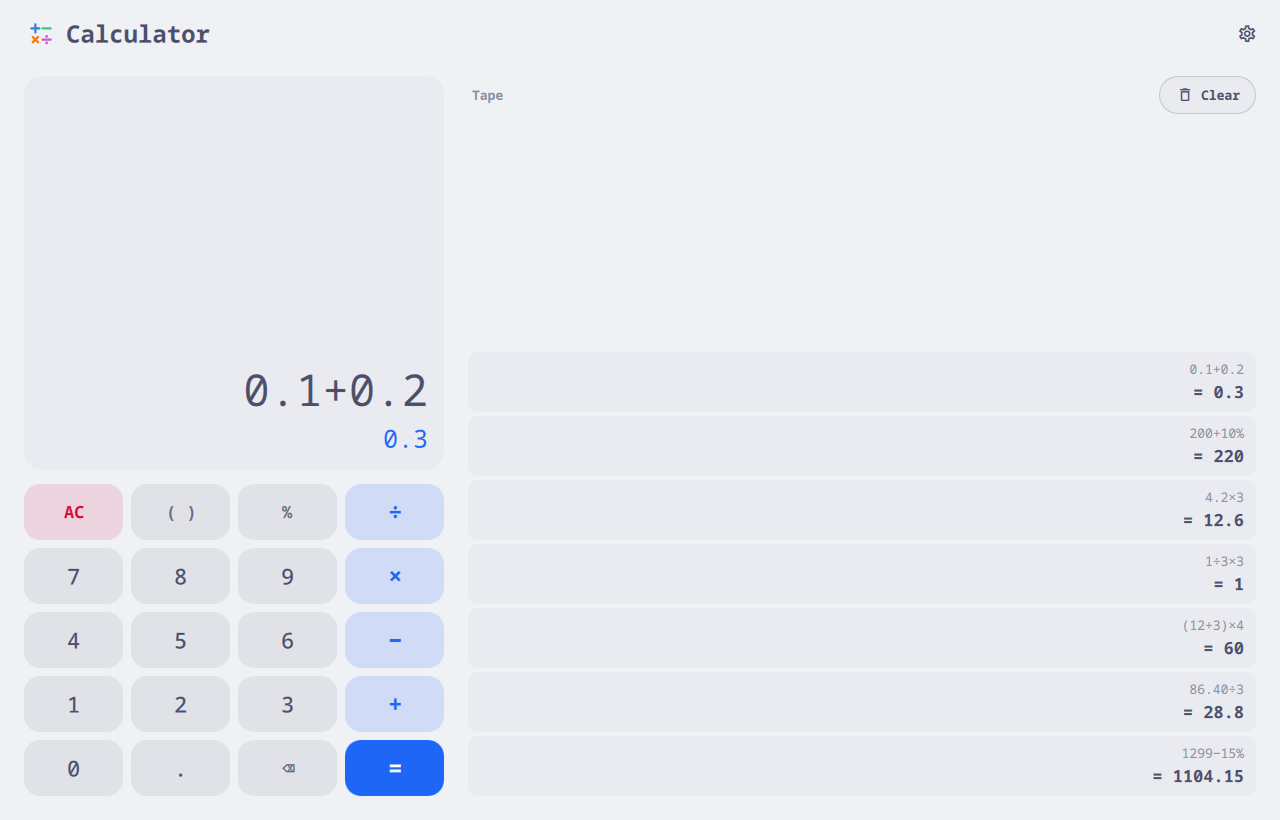
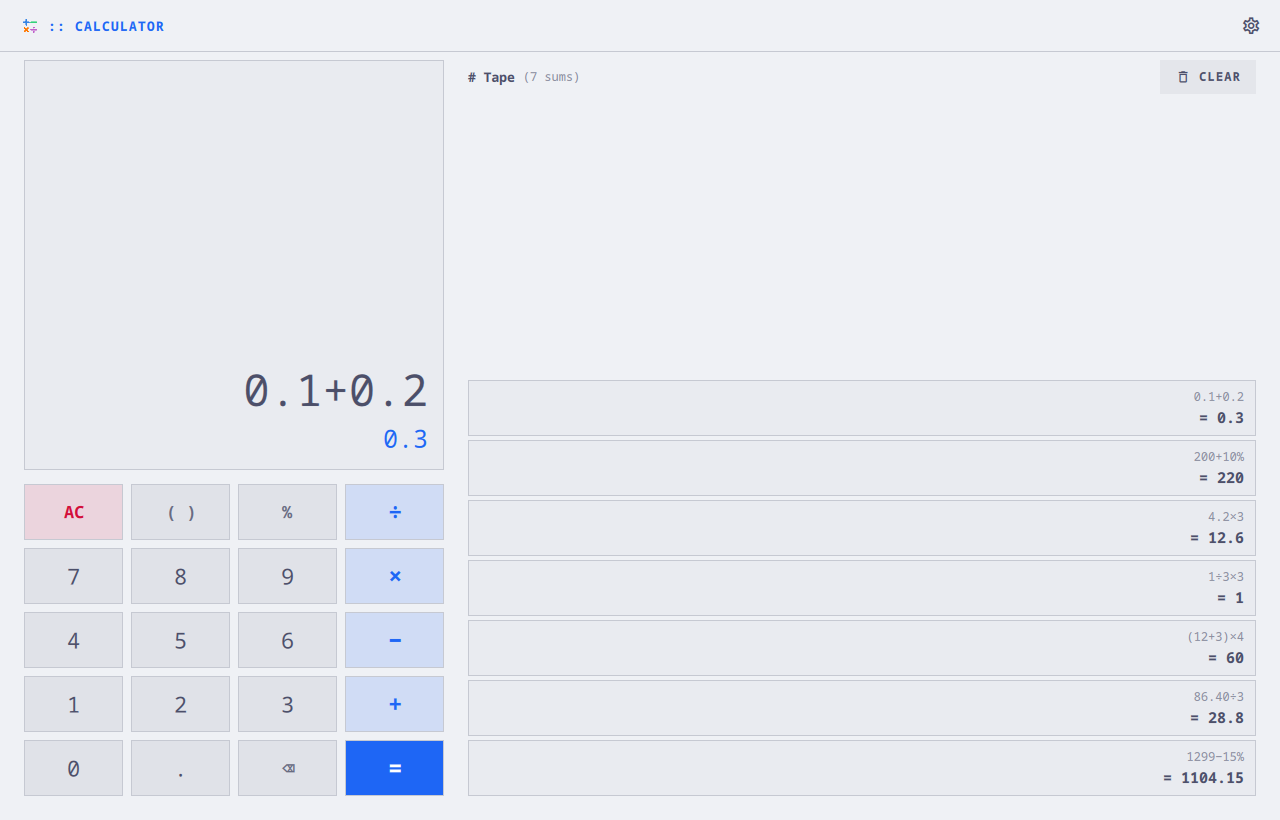
Calculator in Omarchy's look: square keys, a lined display, a # Tape
The keys and the display were rounded boxes on a square app. They are lined
squares now, the digits Normal and the operators Bold -- a monospace face
has no DemiBold worth the name -- and the tape's lines are lined boxes under
a '# Tape (7 sums)' heading.

diff --git a/apps/calculator/Tape.qml b/apps/calculator/Tape.qml
@@ -14,16 +14,13 @@ Item {
   signal picked(string answer)
   signal cleared()
 
-  Text {
+  SectionTitle {
     id: heading
-    x: 4
-    text: root.titled ? "Tape" : ""
-    color: root.app.ui.muted
-    font.family: root.app.ui.font
-    font.pixelSize: root.app.ui.fs.sm
-    font.weight: Font.DemiBold
+    app: root.app
+    visible: root.titled
+    text: "Tape"
+    note: root.tape.length === 1 ? "1 sum" : root.tape.length + " sums"
     height: clear.height
-    verticalAlignment: Text.AlignVCenter
   }
   Button {
     id: clear
@@ -59,6 +56,8 @@ Item {
       height: col.implicitHeight + 16
       radius: root.app.ui.radius
       color: tap.pressed ? root.app.ui.pressed : tap.containsMouse ? root.app.ui.hover : root.app.ui.surface
+      border.width: 1
+      border.color: root.app.ui.line
 
       Column {
         id: col
@@ -84,7 +83,7 @@ Item {
           color: root.app.ui.text
           font.family: root.app.ui.font
           font.pixelSize: root.app.ui.fs.lg
-          font.weight: Font.DemiBold
+          font.weight: Font.Bold
           font.features: ({ "tnum": 1 })
         }
       }

diff --git a/apps/calculator/Keypad.qml b/apps/calculator/Keypad.qml
@@ -57,8 +57,10 @@ Grid {
       required property var modelData
       width: root.keyWidth
       height: root.keyHeight
-      radius: root.app.ui.radius + 6
+      radius: root.app.ui.radius
       color: root.fill(modelData.kind, tap.pressed)
+      border.width: 1
+      border.color: root.app.ui.line
       Behavior on color { ColorAnimation { duration: 90 } }
 
       Text {
@@ -67,7 +69,7 @@ Grid {
         color: root.ink(key.modelData.kind)
         font.family: root.app.ui.font
         font.pixelSize: root.size(key.modelData)
-        font.weight: key.modelData.kind === "digit" ? Font.Medium : Font.DemiBold
+        font.weight: key.modelData.kind === "digit" ? Font.Normal : Font.Bold
       }
 
       MouseArea {

diff --git a/apps/calculator/Display.qml b/apps/calculator/Display.qml
@@ -12,8 +12,10 @@ Rectangle {
   property int sumSize: 36
 
   implicitHeight: sumText.implicitHeight + answerText.implicitHeight + 30
-  radius: app.ui.radius + 8
+  radius: app.ui.radius
   color: app.ui.surface
+  border.width: 1
+  border.color: app.ui.line
 
   Text {
     id: sumText
